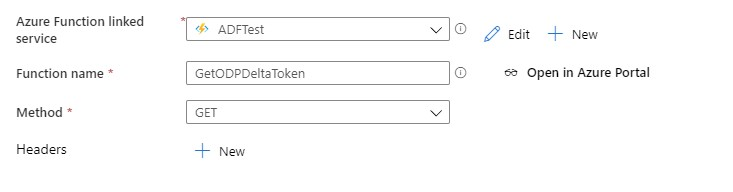
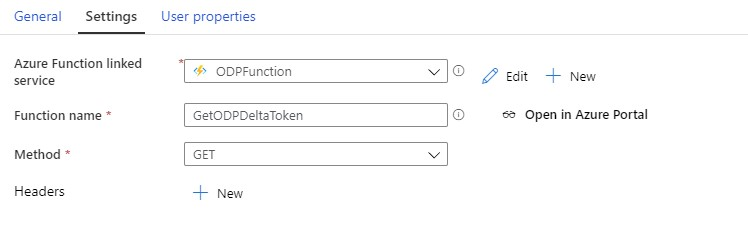
Added Azure Function

diff --git a/SAPS4H_ODP.md b/SAPS4H_ODP.md
@@ -218,21 +218,36 @@ The pipeline in Azure DataFactory would consist of 2 steps :
 1. Retrieve Latest Delta Token
 2. Execute the Delta Load
 
-In order to retrieve the last delta token by calling the DeltaLinksOfAttrOfZBD_ISALESDOC_1 function and select the latest by using the `CreatedAt` property. Unoftunatley SAP did not implement the `$orderby`option so I had to create an Azure Function to execute this task.
- `http://vhcals4hci.dummy.nodomain:50000/sap/opu/odata/SAP/ZBD_ISALESDOC_1_SRV/DeltaLinksOfAttrOfZBD_ISALESDOC_1?$orderby=CreatedAt`
+In order to retrieve the last delta token by calling the DeltaLinksOfAttrOfZBD_ISALESDOC_1 function and select the latest by using the `CreatedAt` property. Unfortunately SAP did not implement the `$orderby`option so an Azure Function is needed to execute this task.
+ 
+ `http://vhcals4hci.dummy.nodomain:50000/sap/opu/odata/SAP/ZBD_ISALESDOC_1_SRV/DeltaLinksOfAttrOfZBD_ISALESDOC_1?$orderby=CreatedAt` is not implemented.
 
 <img src="Images\S4H_ODP\orderby_error.jpg">
 
-The pipeline in ADF then looks as follows.
+In the end the ADF pipeline looks as follows.
 
 <img src="Images\S4H_ODP\ADFpipeline.jpg">
 
+For more info on how to integrate an Azure Function into Azure Data Factory, see [Azure Function activity in Azure Data Factory](https://docs.microsoft.com/en-us/azure/data-factory/control-flow-azure-function-activity).
 Sample code for the Azure Function can be found at (Scripts\ODP\GetODPDeltaToken.cs).
-The first action in the ADF pipeline is a call to this function.
+This function returns the last delta token. The response looks as follows:
+
+```json
+{
+    "DeltaToken": "D20200826161002_000029000"
+}
+```
+The `DeltaToken` property will be used later to retrieve the token. 
+
+ADF needs an Function Linked Service to connect to the function.
+
+<img src="Images\S4H_ODP\FunctionLinkedService.jpg"> 
+
+The first action in the ADF pipeline is connected to this Linked Service.
 
 <img src="Images\S4H_ODP\ADFfunction.jpg">
 
-The next step is a 'Copy' action. 
+The next step is the 'Copy' action. 
 First we need to setup a Linked Service for the SAP system based on the SAP ECC Connector.
 Here we enter the base URL of the oData Service.
 
@@ -241,7 +256,7 @@ Here we enter the base URL of the oData Service.
 <img src="LinkedService.jpg">
 
 Next we need to create a dataset. Here we need to enter the rest of the path for reading out the delta changes. Since the deltatoken is 'part' of this url, we need to construct the URL dynamically.
-`.../sap/opu/odata/SAP/ZBD_ISALESDOC_1_SRV/DeltaLinksOfAttrOfZBD_ISALESDOC_1('<deltatoken')/ChangesAfter`
+`.../sap/opu/odata/SAP/ZBD_ISALESDOC_1_SRV/DeltaLinksOfAttrOfZBD_ISALESDOC_1('<deltatoken>')/ChangesAfter`
 Since the token is the output of the previous step, we need to introduce a parameter. Here we introduce the parameter `token`. For testing purposes you can give in a default value.
 
 <img src="Images\S4H_ODP\ParameterToken.jpg">
@@ -254,7 +269,7 @@ Enter the following as path :
 <img src="Images\S4H_ODP\DataSet.jpg">
 
 As a next step we create the copy action in the ADF pipeline. The source of this step is our SAP oData Dataset. The output of the Azure Function step needs to be linked to the `token` input parameter of the DataSet
-In the source dataset properties enter the following :
+In the source dataset properties enter the following to retrieve the delta token from the function response:
 
 ```
 @activity('Get DeltaToken').output.DeltaToken
@@ -268,7 +283,7 @@ A SQL DB server can be used as a sink.
 
 You can now test this delta load by changing some sales orders and verifying the result in the destination.
 
-Note : The initial download can be done using another pipeline using the plain entityset and providing the subscription paramater in the HTTP header.
+Note : The initial download can be done by another pipeline using the plain entityset and providing the subscription paramater in the HTTP header.
 
 
 ## Documentation
@@ -277,3 +292,4 @@ Note : The initial download can be done using another pipeline using the plain e
 * [ODP-Based Data Extraction via OData](https://help.sap.com/viewer/ccc9cdbdc6cd4eceaf1e5485b1bf8f4b/7.5.18/en-US/11853413cf124dde91925284133c007d.html)
 * [Using the OData Service for Extracting ODP Data](https://help.sap.com/viewer/ccc9cdbdc6cd4eceaf1e5485b1bf8f4b/7.5.18/en-US/50f4ee6253134d3cafa25b9444f0c5a9.html)
 * [ODP based data extraction from S/4Hana via oData Client](https://github.com/ROBROICH/SAP_ODP_ODATA_CLIENT/blob/master/README.md)
+* [Azure Function activity in Azure Data Factory](https://docs.microsoft.com/en-us/azure/data-factory/control-flow-azure-function-activity).
